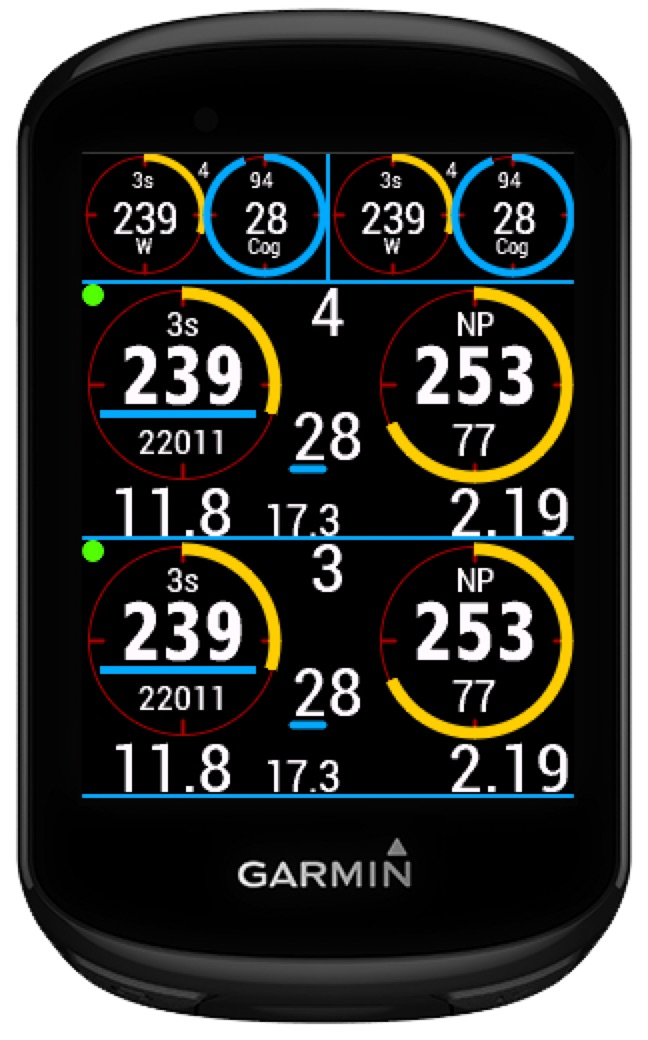
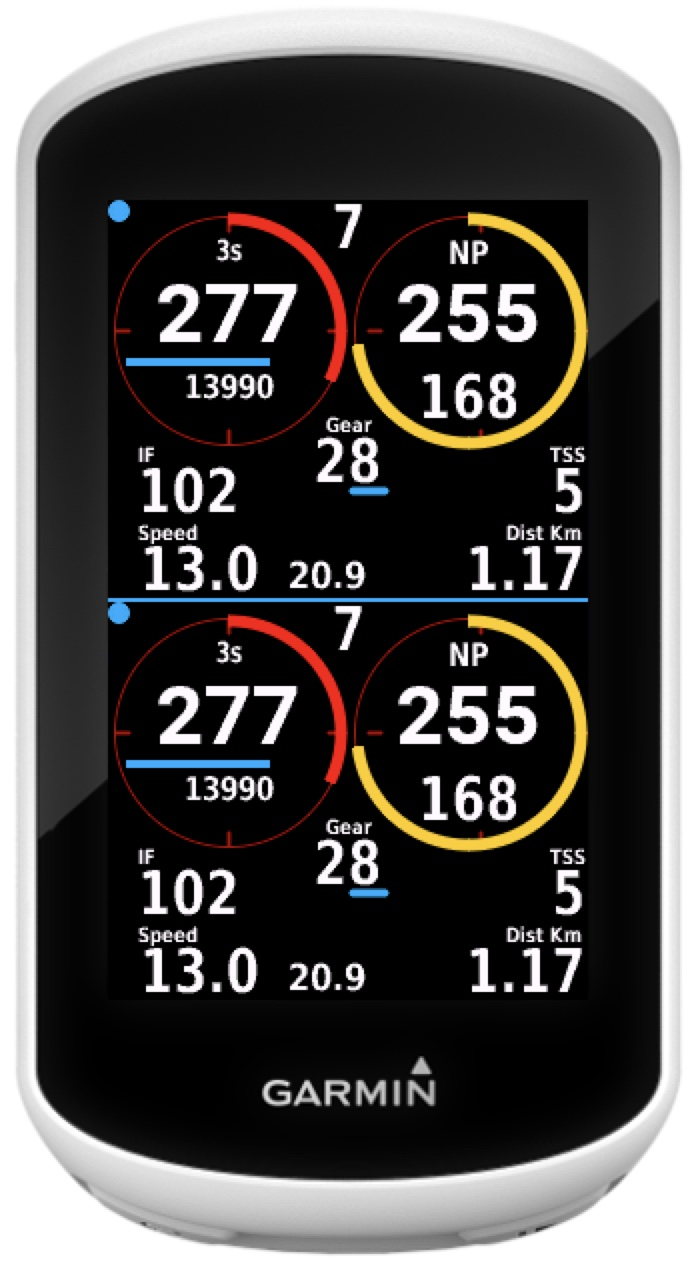
trp 1.9.1

diff --git a/trainingpower/home.html b/trainingpower/home.html
@@ -187,7 +187,7 @@
                                 <div class="carousel-item">
                                     <img src="/trainingpower/images/carousel/4.jpg" class="" alt="" width="250">
                                     <div class="carousel-cap-garm d-none d-md-block">
-                                    <h6>4 Edge 830 - Circles B Mode (Layout 4B)</h6>
+                                    <h6>4 Edge Explorer 2 - Circles B Mode (Layout 4B)</h6>
                                     </div>
                                 </div>
                                 <div class="carousel-item">
@@ -261,7 +261,7 @@
                 <div class="modal-links">
                     <p class="h2">Release History</p>
                     <p>&nbsp;</p>                    
-                    <p class="h5">v1.9.0:</p>
+                    <p class="h5">v1.9.1:</p>
                     <ul>
                         <li>ADD:  Support for Edge Explorer2 device</li>
                     </ul>    
